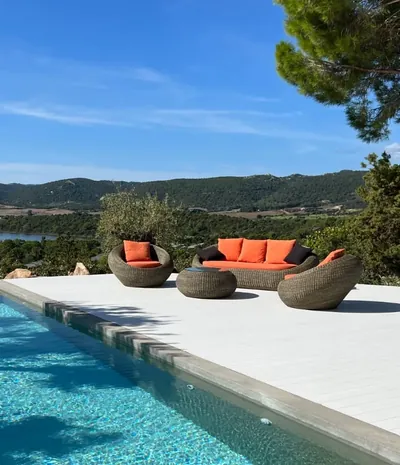
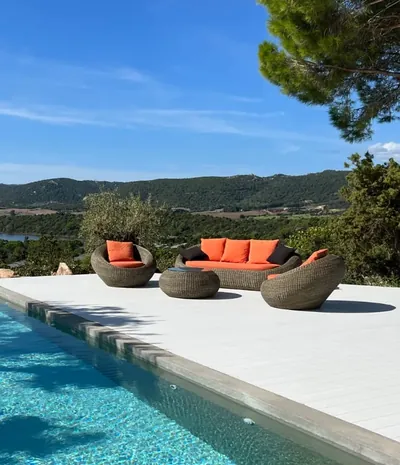
Aluminium : nouvelle photo d'en-tête ; teintes du nuancier qui s'ouvrent en grand
Claude-Session: https://claude.ai/code/session_01CfAVzKJ9K36XfF7G9UPZuf

diff --git a/src/style.css b/src/style.css
@@ -1707,3 +1707,5 @@ h3.h2{font-size:clamp(1.5rem,1rem + 1.2vw,2.1rem);margin:0 0 14px}
 /* Nuancier Aluminium : échantillons en portrait, comme des lames */
 #teintes .nuancier img{aspect-ratio:2/3}
 @media (min-width:701px){#teintes .nuancier img{aspect-ratio:2/3}}
+
+.nuancier[data-galerie] figure{cursor:zoom-in}
